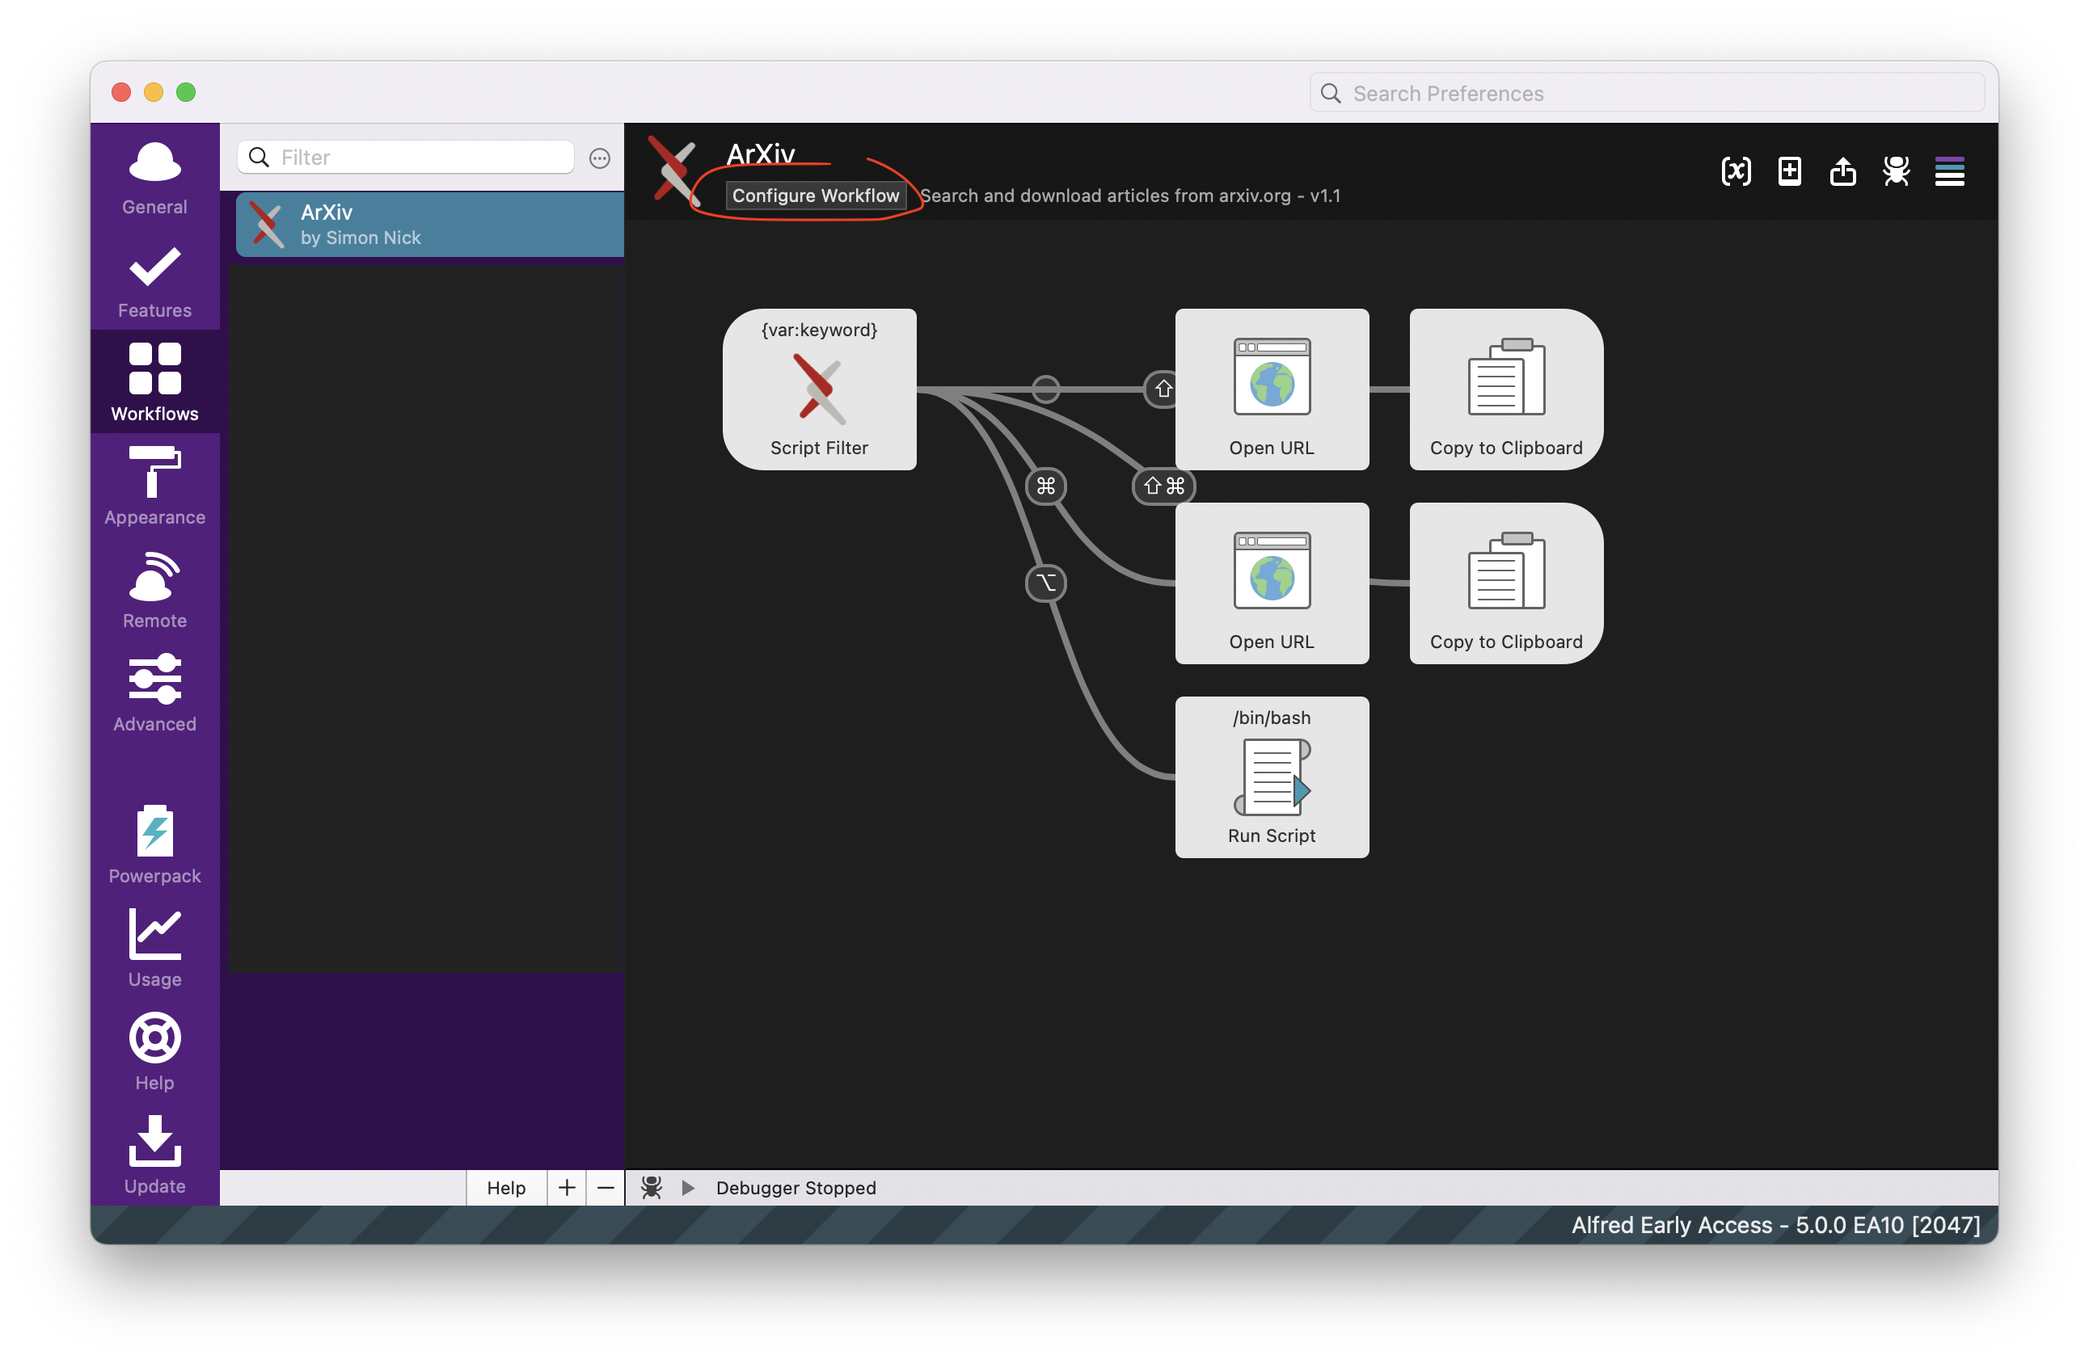
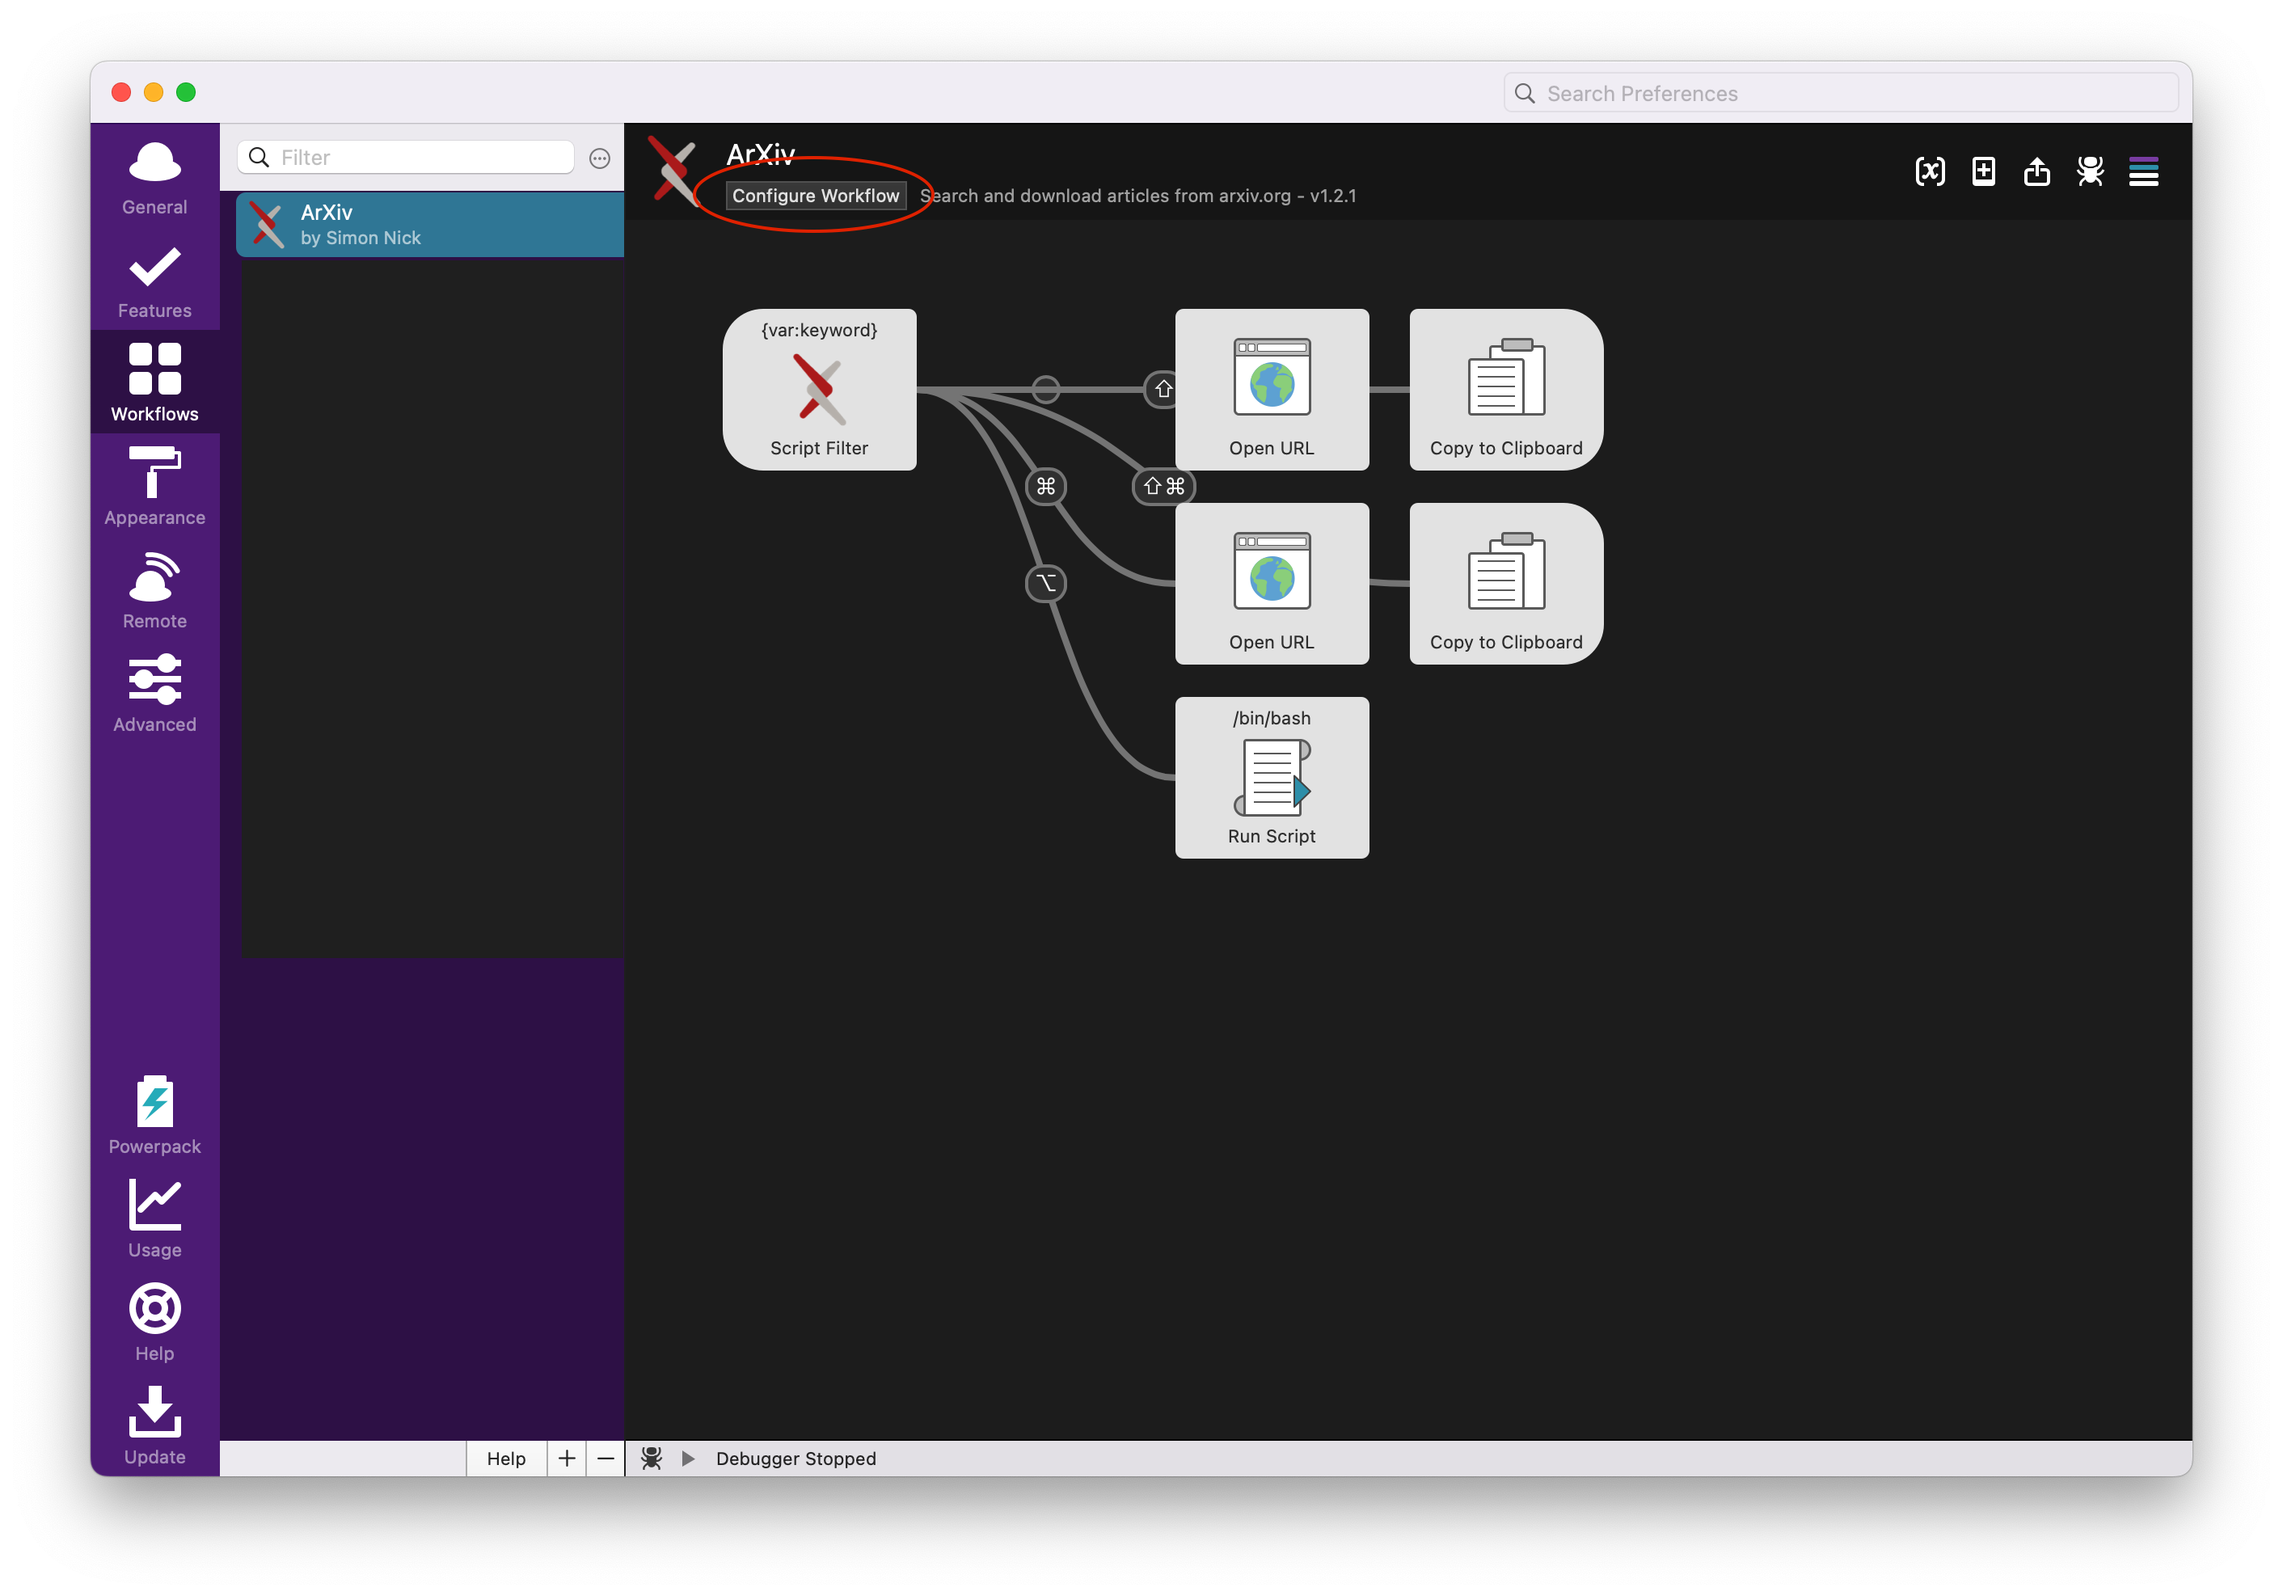
Update README and assets for the newer version

Changed region(s): [[0.031, 0.0308, 0.9598, 0.9242]]

diff --git a/README.md b/README.md
@@ -19,7 +19,7 @@
 
 ## Download
 
-Click [here](https://github.com/SimonNick/arxiv-alfred/releases/download/v1.2.0/arXiv.alfredworkflow) and download `arXiv.alfredworkflow`.
+Click [here](https://github.com/SimonNick/arxiv-alfred/releases/download/v1.2.1/arXiv.alfredworkflow) and download `arXiv.alfredworkflow`.
 
 ## Installation
 
